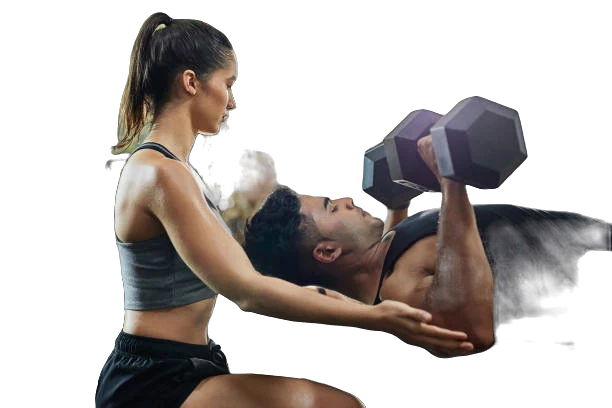
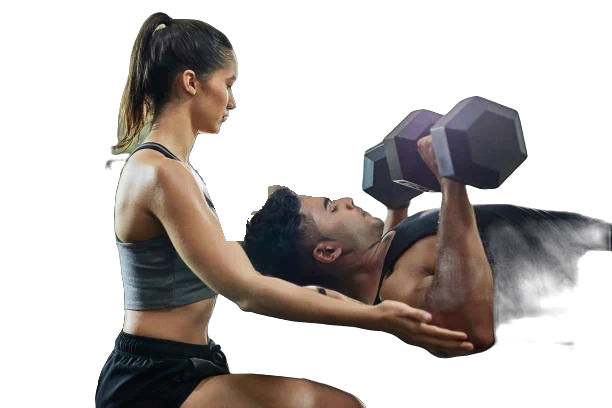
Cordyceps quote box cutout: only the trainer and the man on the bench, the faint background person between them removed (#438)
Claude-Session: https://claude.ai/code/session_01SQZCi7DtrXz2QpcBxspPW4

Changed region(s): [[0.3415, 0.3529, 0.4657, 0.5882], [0.3415, 0.2941, 0.3725, 0.3235], [0.3105, 0.3235, 0.3415, 0.3529]]

diff --git a/index.html b/index.html
@@ -1514,7 +1514,7 @@ html body .cx-sec .cx-track>.mx-box[style*="lm-grandpa-football-park"][style*="l
 <p style="font-size:16px;line-height:1.65;color:#FFFDF7;margin:0;max-width:34ch;text-wrap:pretty">Precisely measured into every packet. 2 grams, and the beta-glucan result printed on the certificate.</p>
 </div></div></div></div></section>
 <div class="mx-group" style="display:contents"><section class="mx-sec" data-m="mx-mags"><div class="mx-wrap"><div class="cx"><div class="rit-nav"><button class="rit-arrow" data-d="-1" onClick="{{ cxMove }}" aria-label="Previous">‹</button><span>SWIPE FOR MORE</span><button class="rit-arrow" data-d="1" onClick="{{ cxMove }}" aria-label="Next">›</button></div><div class="cx-track"><a href="https://womanandhome.com/health-wellbeing/menopause/lions-mane-for-brain-fog" target="_blank" rel="noopener" class="mx-box mx-press mx-sq mx-press-k"><span class="pr-plate"><span class="pr-mast">Woman &amp; Home</span><span class="mx-tag">THE BRAIN FOG</span><span class="pr-head">“I tried taking lion&#x27;s mane for my menopausal brain fog, and now I get why everyone&#x27;s talking about it”</span><span class="pr-date">DECEMBER 2024</span><span class="mx-cta">READ IT&nbsp;→</span></span></a><a href="https://www.esquireindia.co.in/amp/story/food-and-drinks/where-to-drink/mushroom-coffee-is-the-weird-wellness-brew-that-works" target="_blank" rel="noopener" class="mx-box mx-press mx-sq mx-press-k"><span class="pr-plate"><span class="pr-mast">ESQUIRE</span><span class="mx-tag">THE MORNING CUP</span><span class="pr-head">“Mushroom Coffee Is The Weird Wellness Brew That Works”</span><span class="pr-date">JUNE 2025</span><span class="mx-cta">READ IT&nbsp;→</span></span></a><a href="https://www.aol.com/lifestyle/im-registered-dietitian-swapped-regular-221700008.html" target="_blank" rel="noopener" class="mx-box mx-press mx-sq mx-press-k"><span class="pr-plate"><span class="pr-mast">Parade</span><span class="mx-tag">THE WEEK LONG TEST</span><span class="pr-head">“I&#x27;m a Registered Dietitian Who Swapped Regular Coffee for Mushroom Coffee for a Week. Here&#x27;s What Happened”</span><span class="pr-date">NOVEMBER 2025</span><span class="mx-cta">READ IT&nbsp;→</span></span></a><a href="https://www.thehealthy.com/food/mushroom-coffee-every-day-for-a-week/" target="_blank" rel="noopener" class="mx-box mx-press mx-sq mx-press-k"><span class="pr-plate"><span class="pr-mast">Reader&#x27;s Digest</span><span class="mx-tag">THE HEALTHY</span><span class="pr-head">“I Had Mushroom Coffee Every Day for a Week. Here&#x27;s What Happened”</span><span class="pr-date">APRIL 2023</span><span class="mx-cta">READ IT&nbsp;→</span></span></a><a href="https://www.countryandtownhouse.com/food-and-drink/mushroom-coffee" target="_blank" rel="noopener" class="mx-box mx-press mx-sq mx-press-k"><span class="pr-plate"><span class="pr-mast">Country &amp; Town House</span><span class="mx-tag">THE BIG QUESTION</span><span class="pr-head">“Will Drinking Mushroom Coffee Actually Do Anything?”</span><span class="pr-date">SEPTEMBER 2024</span><span class="mx-cta">READ IT&nbsp;→</span></span></a><a href="https://www.dailymaverick.co.za/article/2026-02-10-brain-boost-or-brand-boost-the-market-momentum-behind-lions-mane-mushrooms/" target="_blank" rel="noopener" class="mx-box mx-press mx-sq mx-press-k"><span class="pr-plate"><span class="pr-mast">Daily Maverick</span><span class="mx-tag">THE MARKET</span><span class="pr-head">“Brain boost or brand boost? The market momentum behind lion&#x27;s mane mushrooms”</span><span class="pr-date">FEBRUARY 2026</span><span class="mx-cta">READ IT&nbsp;→</span></span></a></div></div></div></section><section class="mx-sec" data-m="mx-lm"><div class="mx-wrap"><div class="mx-title"><a href="#" data-page="m-lm" onClick="{{ go }}" class="mx-ic-link" aria-label="Lion's Mane page"><img src="assets/icons/species/rcx-sym-lions-mane-gold.svg" alt=""></a><h2>LION'S MANE MUSHROOM</h2><p>for <span>brain health as you age</span></p></div><input type="radio" name="mxt-lm" id="mxt-lm-1" class="mx-r" checked><input type="radio" name="mxt-lm" id="mxt-lm-2" class="mx-r"><div class="mx-tabs"><label for="mxt-lm-1">THE LIFE</label><label for="mxt-lm-2">THE PROOF</label></div><div class="mx-grid"><a href="#" data-page="m-lm" onClick="{{ go }}" class="mx-box" style="background-image:linear-gradient(to top,rgba(0,0,0,.92) 0%,rgba(0,0,0,.6) 50%,rgba(0,0,0,.35) 100%),url('assets/photo/why-rv-desk-nopen.jpg');background-position:center,12% 30%"><span class="mx-tag">THE VIDEO CALL</span><span class="mx-head">Your best thinking, every morning.</span><span class="mx-text">Hericium erinaceus. No caffeine of its own, so it sits well in the first cup.</span><span class="mx-cta">MEET LION'S MANE&nbsp;→</span></a><a href="https://www.jstage.jst.go.jp/article/biomedres/40/4/40_125/_article" target="_blank" rel="noopener" class="mx-box" style="background-image:linear-gradient(to top,rgba(0,0,0,.92) 0%,rgba(0,0,0,.6) 50%,rgba(0,0,0,.3) 100%),url('assets/photo/lm-grandpa-football-park.jpg?h=1');background-size:cover,auto 135%;background-position:center,74% 62%"><span class="mx-tag">STRESS AND AGE</span><span class="mx-head">Stress and aging can cause mental decay.</span><span class="mx-text">Lion's mane is the one the brain research is about. Healthy adults took it every day for twelve weeks and were scored on cognitive tests against a placebo.</span><span class="mx-cta">READ THE 12 WEEK TRIAL&nbsp;→</span></a><a href="https://pubmed.ncbi.nlm.nih.gov/?term=%22Hericium+erinaceus%22" target="_blank" rel="noopener" class="mx-box mx-lab"><span class="lab-hd">LAB REPORT · PUBMED SEARCH · OCT 2026</span><span class="lab-title">LION'S MANE · HERICIUM ERINACEUS</span><span class="lab-rows"><span class="lab-row"><span class="lab-n">590</span><span class="lab-bar"><i style="width:100%"></i></span><span class="lab-l">PUBLISHED PAPERS</span></span><span class="lab-row"><span class="lab-n">343</span><span class="lab-bar"><i style="width:58%"></i></span><span class="lab-l">LAST FIVE YEARS</span></span><span class="lab-row"><span class="lab-n">170</span><span class="lab-bar"><i style="width:29%"></i></span><span class="lab-l">HUMAN RESEARCH</span></span><span class="lab-row"><span class="lab-n">7</span><span class="lab-bar"><i style="width:4%"></i></span><span class="lab-l">CLINICAL TRIALS</span></span></span><span class="lab-src">Source: U.S. National Library of Medicine</span><span class="mx-cta">SEARCH IT YOURSELF&nbsp;→</span></a><div class="mx-box mx-quote" style="background-image:linear-gradient(rgba(0,0,0,.7),rgba(0,0,0,.78)),url('assets/photo/own-tetons.jpg')"><span class="mx-qmark">“</span><span class="mx-head">[Customer quote to come]</span><span class="mx-small">Real words from a real tester, shared with permission.</span></div></div></div></section>
-<section class="mx-sec" data-m="mx-cd"><div class="mx-wrap"><div class="mx-title"><a href="#" data-page="m-cd" onClick="{{ go }}" class="mx-ic-link" aria-label="Cordyceps page"><img src="assets/icons/species/rcx-sym-cordyceps-gold.svg" alt=""></a><h2>CORDYCEPS MUSHROOM</h2><p>for <span>stamina and endurance</span></p></div><input type="radio" name="mxt-cd" id="mxt-cd-1" class="mx-r" checked><input type="radio" name="mxt-cd" id="mxt-cd-2" class="mx-r"><div class="mx-tabs"><label for="mxt-cd-1">THE LIFE</label><label for="mxt-cd-2">THE PROOF</label></div><div class="mx-grid"><a href="#" data-page="m-cd" onClick="{{ go }}" class="mx-box" style="background-image:linear-gradient(to top,rgba(0,0,0,.92) 0%,rgba(0,0,0,.6) 50%,rgba(0,0,0,.3) 100%),url('assets/photo/mtb-rider-side.jpg?v=3');background-position:center,38% 36%"><span class="mx-tag">THE TRAIL</span><span class="mx-head">Stamina isn't what it used to be. Go longer.</span><span class="mx-text">Cordyceps militaris. For your best efforts, from the forest's.</span><span class="mx-cta">MEET CORDYCEPS&nbsp;→</span></a><a href="#" data-page="how" onClick="{{ go }}" class="mx-box" data-m="love-card" style="background-image:linear-gradient(to top,rgba(0,0,0,.92) 0%,rgba(0,0,0,.6) 56%,rgba(0,0,0,.08) 100%),url('assets/photo/couple-tent-beach.jpg');background-size:100% 100%,cover;background-position:center,50% 35%;background-repeat:no-repeat;background-color:#000"><span class="mx-tag">LOVE LIFE</span><span class="mx-head">Go the distance.</span><span class="mx-text">Stamina for the miles, the summits and everything after.</span><span class="mx-cta">HOW TO USE&nbsp;→</span></a><a href="https://journals.plos.org/plosone/article?id=10.1371/journal.pone.0351725" target="_blank" rel="noopener" class="mx-box mx-lab"><span class="lab-hd">LAB REPORT · PUBMED SEARCH · OCT 2026</span><span class="lab-title">CORDYCEPS · CORDYCEPS MILITARIS</span><span class="lab-rows"><span class="lab-row"><span class="lab-n">2,946</span><span class="lab-bar"><i style="width:100%"></i></span><span class="lab-l">PAPERS, ALL CORDYCEPS</span></span><span class="lab-row"><span class="lab-n">1,070</span><span class="lab-bar"><i style="width:36%"></i></span><span class="lab-l">C. MILITARIS, IN YOUR PACKET</span></span><span class="lab-row"><span class="lab-n">641</span><span class="lab-bar"><i style="width:22%"></i></span><span class="lab-l">HUMAN RESEARCH</span></span><span class="lab-row"><span class="lab-n">40</span><span class="lab-bar"><i style="width:4%"></i></span><span class="lab-l">CLINICAL TRIALS</span></span></span><span class="lab-src">Source: U.S. National Library of Medicine</span><span class="mx-cta">READ THE STUDY&nbsp;→</span></a><div class="mx-box mx-quote" data-rcx-cdq="" data-lift-desktop="" data-lift-bg="assets/cutouts/stock-outdoor-photo-cutout.webp?v=3" data-lift-dim="brightness(1.12)" data-lift-scale="1.04" data-lift-origin="0.45 0.6" data-lift-dur="9000" data-lift-delay="1500" data-lift-d-delay="1500" data-lift-fade="1500" style="background-image:linear-gradient(rgba(0,0,0,.5),rgba(0,0,0,.62)),url('assets/photo/stock-outdoor-photo.jpg')"><span class="mx-qmark">“</span><span class="mx-head">[Customer quote to come]</span><span class="mx-small">Real words from a real tester, shared with permission.</span></div></div></div></section>
+<section class="mx-sec" data-m="mx-cd"><div class="mx-wrap"><div class="mx-title"><a href="#" data-page="m-cd" onClick="{{ go }}" class="mx-ic-link" aria-label="Cordyceps page"><img src="assets/icons/species/rcx-sym-cordyceps-gold.svg" alt=""></a><h2>CORDYCEPS MUSHROOM</h2><p>for <span>stamina and endurance</span></p></div><input type="radio" name="mxt-cd" id="mxt-cd-1" class="mx-r" checked><input type="radio" name="mxt-cd" id="mxt-cd-2" class="mx-r"><div class="mx-tabs"><label for="mxt-cd-1">THE LIFE</label><label for="mxt-cd-2">THE PROOF</label></div><div class="mx-grid"><a href="#" data-page="m-cd" onClick="{{ go }}" class="mx-box" style="background-image:linear-gradient(to top,rgba(0,0,0,.92) 0%,rgba(0,0,0,.6) 50%,rgba(0,0,0,.3) 100%),url('assets/photo/mtb-rider-side.jpg?v=3');background-position:center,38% 36%"><span class="mx-tag">THE TRAIL</span><span class="mx-head">Stamina isn't what it used to be. Go longer.</span><span class="mx-text">Cordyceps militaris. For your best efforts, from the forest's.</span><span class="mx-cta">MEET CORDYCEPS&nbsp;→</span></a><a href="#" data-page="how" onClick="{{ go }}" class="mx-box" data-m="love-card" style="background-image:linear-gradient(to top,rgba(0,0,0,.92) 0%,rgba(0,0,0,.6) 56%,rgba(0,0,0,.08) 100%),url('assets/photo/couple-tent-beach.jpg');background-size:100% 100%,cover;background-position:center,50% 35%;background-repeat:no-repeat;background-color:#000"><span class="mx-tag">LOVE LIFE</span><span class="mx-head">Go the distance.</span><span class="mx-text">Stamina for the miles, the summits and everything after.</span><span class="mx-cta">HOW TO USE&nbsp;→</span></a><a href="https://journals.plos.org/plosone/article?id=10.1371/journal.pone.0351725" target="_blank" rel="noopener" class="mx-box mx-lab"><span class="lab-hd">LAB REPORT · PUBMED SEARCH · OCT 2026</span><span class="lab-title">CORDYCEPS · CORDYCEPS MILITARIS</span><span class="lab-rows"><span class="lab-row"><span class="lab-n">2,946</span><span class="lab-bar"><i style="width:100%"></i></span><span class="lab-l">PAPERS, ALL CORDYCEPS</span></span><span class="lab-row"><span class="lab-n">1,070</span><span class="lab-bar"><i style="width:36%"></i></span><span class="lab-l">C. MILITARIS, IN YOUR PACKET</span></span><span class="lab-row"><span class="lab-n">641</span><span class="lab-bar"><i style="width:22%"></i></span><span class="lab-l">HUMAN RESEARCH</span></span><span class="lab-row"><span class="lab-n">40</span><span class="lab-bar"><i style="width:4%"></i></span><span class="lab-l">CLINICAL TRIALS</span></span></span><span class="lab-src">Source: U.S. National Library of Medicine</span><span class="mx-cta">READ THE STUDY&nbsp;→</span></a><div class="mx-box mx-quote" data-rcx-cdq="" data-lift-desktop="" data-lift-bg="assets/cutouts/stock-outdoor-photo-cutout.webp?v=4" data-lift-dim="brightness(1.12)" data-lift-scale="1.04" data-lift-origin="0.45 0.6" data-lift-dur="9000" data-lift-delay="1500" data-lift-d-delay="1500" data-lift-fade="1500" style="background-image:linear-gradient(rgba(0,0,0,.5),rgba(0,0,0,.62)),url('assets/photo/stock-outdoor-photo.jpg')"><span class="mx-qmark">“</span><span class="mx-head">[Customer quote to come]</span><span class="mx-small">Real words from a real tester, shared with permission.</span></div></div></div></section>
 <section class="mx-sec" data-m="mx-tt"><div class="mx-wrap"><div class="mx-title"><a href="#" data-page="m-rs" onClick="{{ go }}" class="mx-ic-link" aria-label="Turkey Tail page"><img src="assets/icons/species/rcx-sym-turkey-tail-gold.svg" alt=""></a><h2>TURKEY TAIL MUSHROOM</h2><p>for <span>a stronger immune system</span></p></div><input type="radio" name="mxt-tt" id="mxt-tt-1" class="mx-r" checked><input type="radio" name="mxt-tt" id="mxt-tt-2" class="mx-r"><div class="mx-tabs"><label for="mxt-tt-1">THE LIFE</label><label for="mxt-tt-2">THE PROOF</label></div><div class="mx-grid"><a href="#" data-page="m-rs" onClick="{{ go }}" class="mx-box" style="background-image:linear-gradient(to top,rgba(0,0,0,.92) 0%,rgba(0,0,0,.6) 50%,rgba(0,0,0,.35) 100%),url('assets/photo/own-wing-sunset.jpg');background-position:center,center"><span class="mx-tag">THE LONG FLIGHT</span><span class="mx-head">Support your immune system by bringing packets with you.</span><span class="mx-text">Bring the packets on the commute and on the flight. Boost your immunity while you are out in the everyday world. These packets are on the go, designed to get you from A to B.</span><span class="mx-cta">MEET TURKEY TAIL&nbsp;→</span></a><a href="#" data-page="m-rs" onClick="{{ go }}" class="mx-box" style="background-image:linear-gradient(to top,rgba(0,0,0,.92) 0%,rgba(0,0,0,.6) 50%,rgba(0,0,0,.3) 100%),url('assets/photo/receipts-airport-line.jpg');background-position:center,center"><span class="mx-tag">THE TRANSPORTATION LINE</span><span class="mx-head">The world is changing.</span><span class="mx-text">A new flu strain every year. Don't let the next one kick your butt.</span><span class="mx-cta">MEET TURKEY TAIL&nbsp;→</span></a><a href="https://www.sciencedirect.com/science/article/abs/pii/S156757690300290X" target="_blank" rel="noopener" class="mx-box mx-lab"><span class="lab-hd">LAB REPORT · PUBMED SEARCH · OCT 2026</span><span class="lab-title">TURKEY TAIL · TRAMETES VERSICOLOR</span><span class="lab-rows lab-big"><span class="lab-row"><span class="lab-n">1,800</span><span class="lab-bar"><i style="width:100%"></i></span><span class="lab-l">PUBLISHED PAPERS</span></span><span class="lab-row"><span class="lab-n">221</span><span class="lab-bar"><i style="width:12%"></i></span><span class="lab-l">HUMAN RESEARCH</span></span><span class="lab-row"><span class="lab-n">101</span><span class="lab-bar"><i style="width:6%"></i></span><span class="lab-l">CLINICAL TRIALS</span></span></span><span class="lab-src">Source: U.S. National Library of Medicine</span><span class="mx-cta">READ THE STUDY&nbsp;→</span></a><div class="mx-box mx-quote" style="background-image:linear-gradient(rgba(0,0,0,.7),rgba(0,0,0,.78)),url('assets/photo/tt-plane-cabin.webp');background-size:100% 100%,cover;background-position:center,59% 50%"><span class="mx-qmark">“</span><span class="mx-head">[Customer quote to come]</span><span class="mx-small">Real words from a real tester, shared with permission.</span></div></div></div></section></div>
 <style>.rit-card::after{content:"";position:absolute;inset:0;z-index:1;pointer-events:none;background:linear-gradient(to top,rgba(0,0,0,.92) 0%,rgba(0,0,0,.6) 38%,rgba(0,0,0,0) 62%)}.rit-card>span{z-index:2 !important}.rit-grid{display:grid;grid-template-columns:repeat(3,minmax(0,1fr));gap:16px}.rit-card{height:460px}.rit-zoom{animation:ritZoom 18s ease-in-out infinite alternate}@keyframes ritZoom{from{background-size:cover,auto 100%}to{background-size:cover,auto 112%}}.rit-nav{display:flex;align-items:center;justify-content:center;gap:18px;margin-top:22px;font-family:'Bebas Neue',sans-serif;letter-spacing:.18em;font-size:18px;color:#D4A24A}.rit-arrow{width:56px;height:56px;border-radius:50%;border:3px solid #D4A24A;background:#000;color:#D4A24A;font-size:30px;line-height:1;cursor:pointer;display:inline-flex;align-items:center;justify-content:center}.rit-arrow:hover{background:#D4A24A;color:#000}.mx-sec[data-m="mx-tt"]{padding-bottom:40px !important}@media (max-width:767px){.rit-grid{grid-template-columns:minmax(0,1fr);gap:14px}.rit-card{height:380px}}</style>
 <section class="mx-sec" data-m="mx-rit"><div class="mx-wrap"><div class="mx-title"><h2>CLEAN. NO MESS. WHEREVER YOU ARE.</h2><p>Tubs of powder are messy. <span>Single serving packets are clean,</span> built for an on the go lifestyle.</p></div><sc-if value="{{ rit0 }}" hint-placeholder-val="{{ true }}"><div class="rit-grid"><a href="#" data-page="how" onClick="{{ go }}" class="mx-box rit-card" aria-label="Powder spilled across a kitchen floor" data-show-mess="" style="background-image:linear-gradient(to top,rgba(0,0,0,.88) 0%,rgba(0,0,0,.55) 30%,rgba(0,0,0,0) 58%),url('assets/photo/mess-floor.jpg');background-position:center,center;background-size:cover,cover"><span class="mx-tag">AT HOME</span><span class="mx-head">No messy tubs</span><span class="mx-text">A tub means a dusty scoop, a sticky lid and powder on the counter by the end of the week. A packet is one serving, sealed until you tear it. Pour it into your coffee or smoothie and you're done. Nothing to measure, nothing to wipe up.</span></a><div class="mx-box rit-card" data-rcx-dogs="" data-lift-desktop="" data-lift-bg="assets/cutouts/own-dogs-car-cutout.webp" data-lift-dim="brightness(1.15) drop-shadow(0 0 10px rgba(255,214,150,.55)) drop-shadow(0 0 24px rgba(255,200,120,.3))" data-lift-scale="1.07" data-lift-origin="0.69 0.6" data-lift-dur="9000" data-lift-delay="1500" data-lift-d-delay="1500" data-lift-fade="1500" style="background-image:linear-gradient(rgba(0,0,0,.4),rgba(0,0,0,.6)),url('assets/photo/own-dogs-car.jpg');background-size:100% 100%,cover;background-position:center,62% 45%"><span class="mx-tag">ON THE ROAD</span><span class="mx-head">Glovebox ready</span><span class="mx-text">Toss a few packets in the glovebox and forget about them until you need one. Tear one into the gas station coffee, give it a stir with the stick and keep driving. No jar rattling around, no powder on the seat.</span></div><a href="#" data-page="how" onClick="{{ go }}" class="mx-box rit-card" aria-label="Athletes training on a field" style="background-image:linear-gradient(to top,rgba(0,0,0,.92) 0%,rgba(0,0,0,.55) 45%,rgba(0,0,0,.15) 100%),url('assets/photo/receipts-football-training-crop-v2.jpg');background-position:center,50% 60%;background-size:cover,cover"><span class="mx-tag">YOUR WORKOUT ROUTINE</span><span class="mx-head">Training day</span><span class="mx-text">No scoop and no tub rolling around in your gym bag. Drop one packet into your shaker or your coffee before the session, shake it and go. Same measured serving every single time.</span></a></div></sc-if><sc-if value="{{ rit1 }}" hint-placeholder-val="{{ false }}"><div class="rit-grid"><a href="#" data-page="how" onClick="{{ go }}" class="mx-box rit-card"  data-lift-origin="0.472 0.5" data-lift-bg="assets/cutouts/receipts-row-photo-cutout.webp" data-lift-desktop="" data-lift-dim="brightness(1)" data-lift-scale="1.035" data-lift-dur="9000" data-lift-delay="1500" data-lift-d-delay="1500" data-lift-fade="1500" aria-label="A mom with her coffee on the school run" style="background-image:linear-gradient(to top,rgba(0,0,0,.92) 0%,rgba(0,0,0,.7) 45%,rgba(0,0,0,.5) 100%),url('assets/photo/receipts-row-photo.jpg');background-position:center,center;background-size:cover,cover"><span class="mx-tag">THE SCHOOL RUN</span><span class="mx-head">Carpool mornings</span><span class="mx-text">Small enough to live in your purse, your pocket or the cup holder. Tear one into your coffee at the drop off line. No powder loose in the bottom of anything, and nothing to clean up later.</span></a><a href="#" data-page="how" onClick="{{ go }}" class="mx-box rit-card"  data-lift-origin="0.672 0.681" data-lift-bg="assets/cutouts/a-rider-pausing-on-a-granite-ridge-cutout.webp" data-lift-desktop="" data-lift-dim="brightness(1.25) drop-shadow(0 0 14px rgba(255,220,160,.45))" data-lift-scale="1.035" data-lift-dur="9000" data-lift-delay="1500" data-lift-d-delay="1500" data-lift-fade="1500" aria-label="A mountain biker pausing on a high granite ridge" style="background-image:linear-gradient(to top,rgba(0,0,0,.88) 0%,rgba(0,0,0,.4) 40%,rgba(0,0,0,.05) 100%),url('assets/photo/a-rider-pausing-on-a-granite-ridge.webp');background-position:center,67% 62%;background-size:cover,auto 135%"><span class="mx-tag">ON THE TRAIL</span><span class="mx-head">For the switchbacks</span><span class="mx-text">A packet weighs next to nothing and takes up no room in your pack. Carry it up the switchbacks, then tear it into the thermos at the top and enjoy the view with something good in your cup.</span></a><a href="#" data-page="how" onClick="{{ go }}" class="mx-box rit-card" data-lift-origin="0.434 0.875" data-lift-bg="assets/cutouts/kettle-tent-mist-cutout.webp" data-lift-desktop="" data-lift-dim="brightness(1)" data-lift-scale="1.035" data-lift-dur="9000" data-lift-delay="1500" data-lift-d-delay="1500" data-lift-fade="1500" aria-label="A kettle on the stove outside a tent" style="background-image:linear-gradient(to top,rgba(0,0,0,.92) 0%,rgba(0,0,0,.55) 45%,rgba(0,0,0,.15) 100%),url('assets/photo/kettle-tent-mist.jpg');background-position:center,center;background-size:cover,cover"><span class="mx-tag">AT THE CAMPSITE</span><span class="mx-head">Around the fire</span><span class="mx-text">Boil the water, tear the packet and pour. No measuring by headlamp, no tub to keep dry in the tent. Just a hot cup in your hands while the fire crackles and the morning comes up.</span></a></div></sc-if><div class="rit-nav"><button class="rit-arrow" onClick="{{ ritMove }}" aria-label="Previous set">‹</button><span>{{ ritLabel }}</span><button class="rit-arrow" onClick="{{ ritMove }}" aria-label="Next set">›</button></div></div></section></div>
